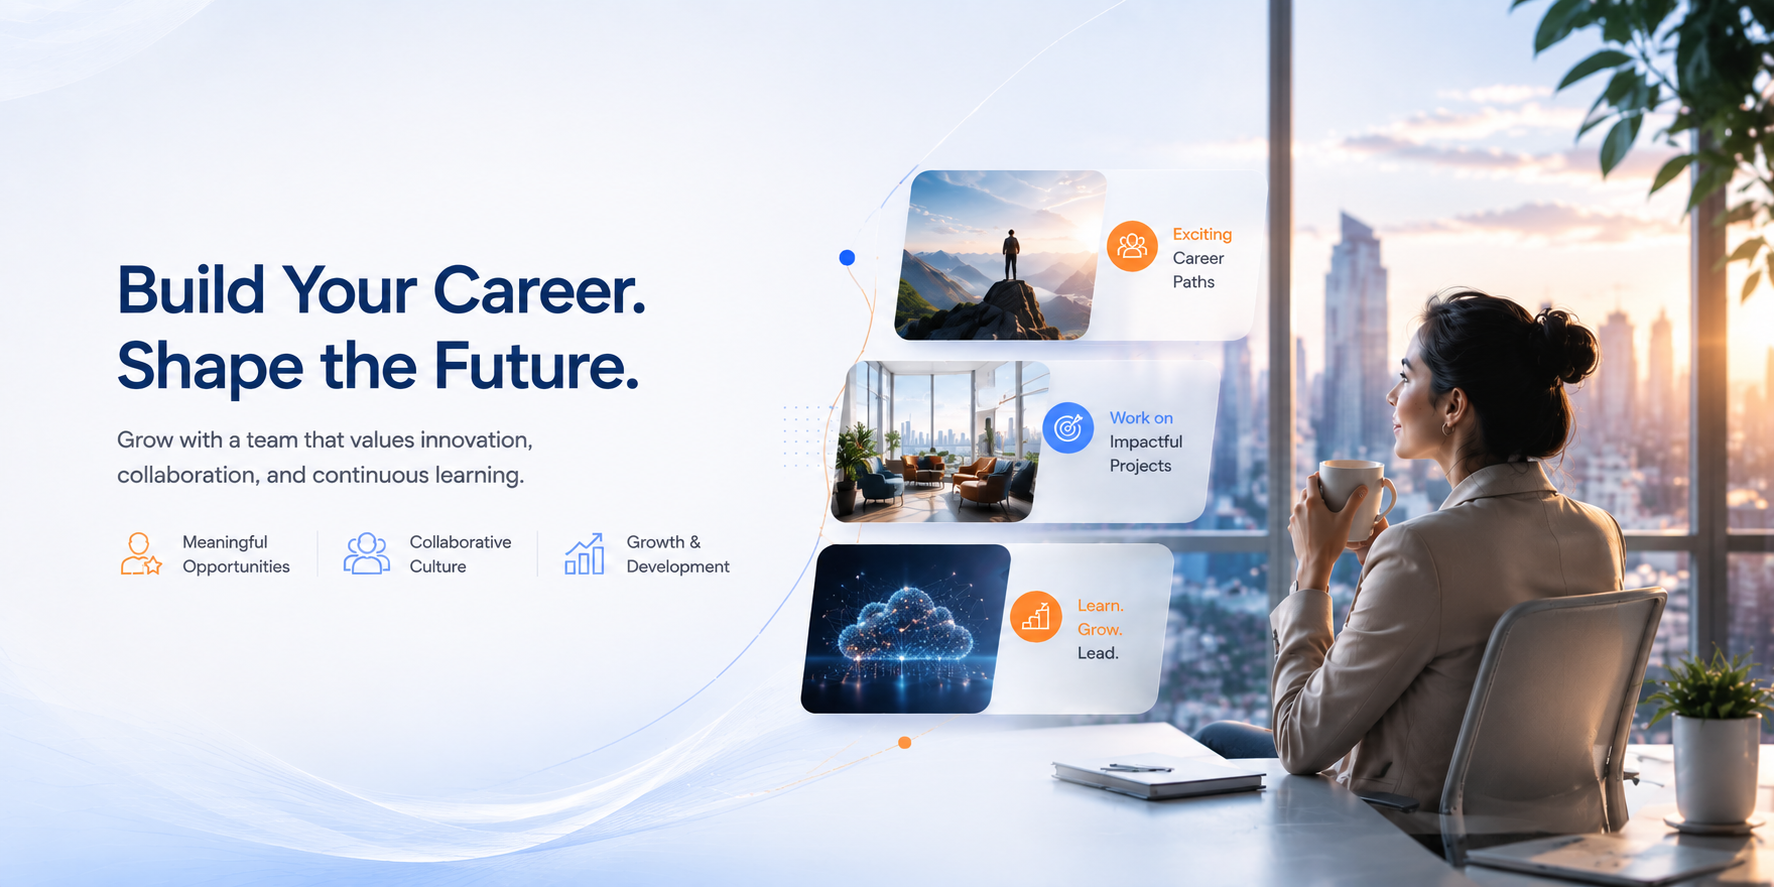
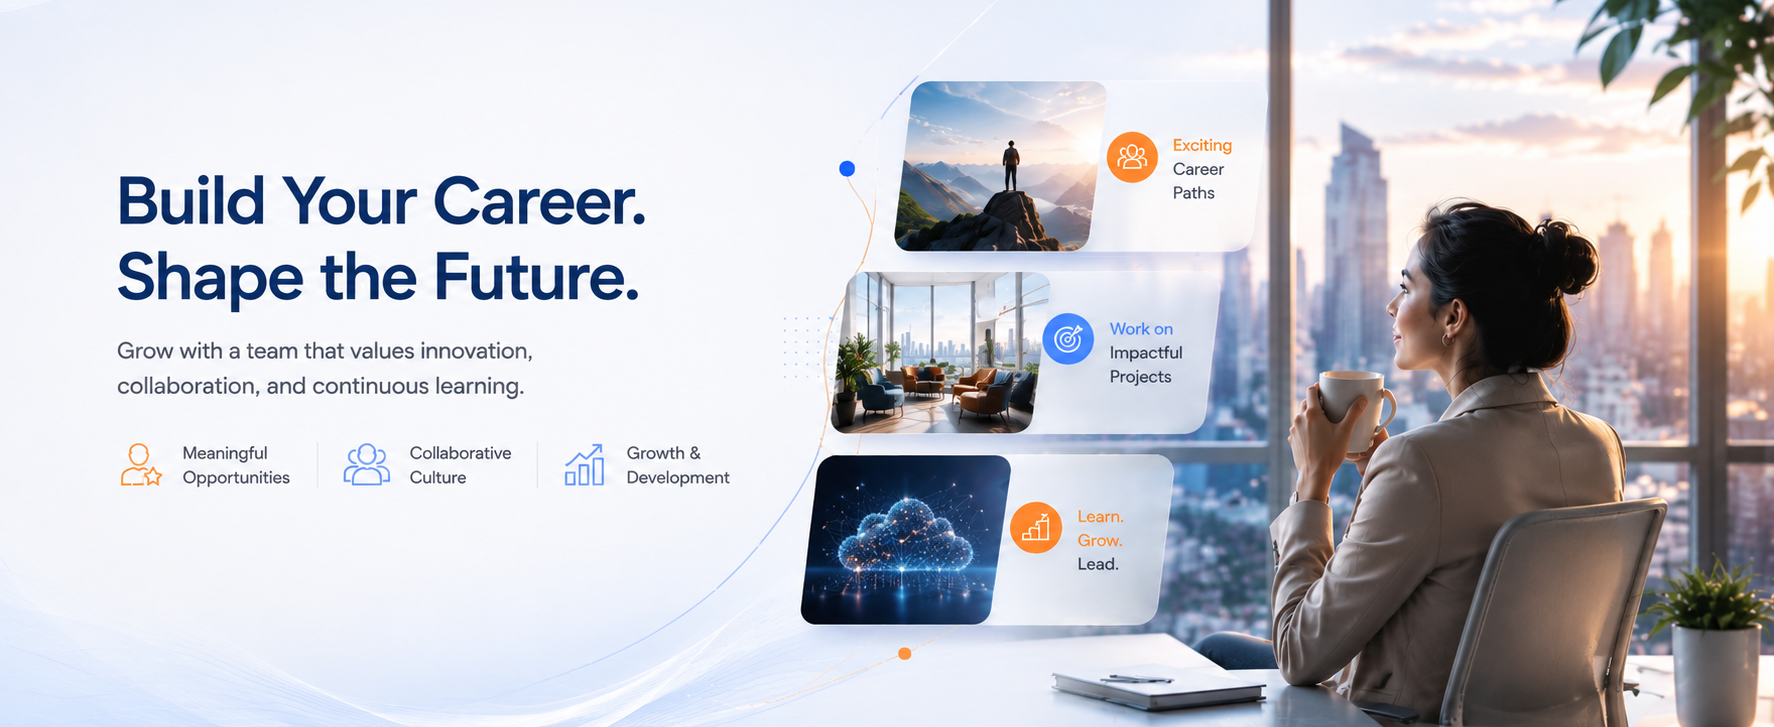
iso update

diff --git a/Finandox/iso.html b/Finandox/iso.html
@@ -379,279 +379,7 @@
             </div>
         </section>
 
-        <footer class="main-footer proen-footer">
-
-            <div class="auto-container">
-
-                <div class="widgets-section">
-
-                    <div class="row clearfix">
-
-                        <!-- Company Info -->
-                        <div class="column col-lg-4 col-md-6">
-
-                            <div class="footer-widget about-widget">
-
-                                <div class="footer-logo">
-
-                                    <a href="index.html">
-
-                                        <img src="assets/images/proen-logo.png" alt="PROEN Consulting Services">
-
-                                    </a>
-
-                                </div>
-
-                                <p>
-                                    PROEN Consulting Services is a leading AI-driven Contract Lifecycle
-                                    Management (CLM) consulting company helping enterprises accelerate
-                                    digital transformation through consulting, implementation,
-                                    managed services, AI-powered contract intelligence, staff
-                                    augmentation, and legacy contract digitization.
-                                </p>
-
-                                <div class="footer-social">
-
-                                    <a href="https://www.linkedin.com/company/proen-clm/posts/" aria-label="LinkedIn">
-                                        <i class="fab fa-linkedin-in"></i>
-                                    </a>
-
-                                    <a href="https://www.facebook.com/profile.php?id=100083807522389"
-                                        aria-label="Facebook">
-                                        <i class="fab fa-facebook-f"></i>
-                                    </a>
-
-                                    <a href="https://x.com/Proen05540198" aria-label="Twitter">
-                                        <i class="fab fa-twitter"></i>
-                                    </a>
-
-                                    <a href="https://www.instagram.com/proenconsultingservices/" aria-label="Instagram">
-                                        <i class="fab fa-instagram"></i>
-                                    </a>
-
-
-                                </div>
-
-                            </div>
-
-                        </div>
-
-                        <!-- Quick Links -->
-
-                        <div class="column col-lg-2 col-md-6">
-
-                            <div class="footer-widget">
-
-                                <h3>
-                                    Quick Links
-                                </h3>
-
-                                <ul class="footer-links">
-
-                                    <li><a href="index.html">Home</a></li>
-
-                                    <li><a href="about.html">About Us</a></li>
-
-                                    <li><a href="services.html">Services</a></li>
-
-                                    <li><a href="blog-grid.html">Announcements</a></li>
-
-                                    <li><a href="careers.html">Careers</a></li>
-
-                                    <li><a href="contact.html">Contact Us</a></li>
-
-                                </ul>
-
-                            </div>
-
-                        </div>
-
-                        <!-- Services -->
-
-                        <div class="column col-lg-3 col-md-6">
-
-                            <div class="footer-widget">
-
-                                <h3>
-                                    Our Services
-                                </h3>
-
-                                <ul class="footer-links">
-
-                                    <li>
-                                        <a href="ai-enabled-clm.html">
-                                            AI-Powered CLM
-                                        </a>
-                                    </li>
-                                    <li>
-                                        <a href="consultation-on-clm-service.html">
-                                            Consultation on CLM Implementation
-                                        </a>
-                                    </li>
-
-                                    <li>
-                                        <a href="technology-development.html">
-                                            Technology Development
-                                        </a>
-                                    </li>
-
-                                    <li>
-                                        <a href="managed-services.html">
-                                            Managed Services
-                                        </a>
-                                    </li>
-
-                                    <li>
-                                        <a href="staff-augmentation.html">
-                                            Staff Augmentation
-                                        </a>
-                                    </li>
-
-                                    <li>
-                                        <a href="paralegal-service.html">
-                                            Paralegal Services
-                                        </a>
-                                    </li>
-
-                                    <li>
-                                        <a href="data-extraction-service.html">
-                                            Data Extraction as a Service
-                                        </a>
-                                    </li>
-
-                                    <li>
-                                        <a href="digital-transformation-service.html">
-                                            Digital Transformation On CLM
-                                        </a>
-                                    </li>
-
-
-                                </ul>
-
-                            </div>
-
-                        </div>
-
-                        <!-- Contact & Offices -->
-
-                        <div class="column col-lg-3 col-md-6">
-
-                            <div class="footer-widget">
-
-                                <h3>
-                                    Contact & Offices
-                                </h3>
-
-                                <div class="footer-contact">
-
-                                    <!-- Email -->
-
-                                    <div class="contact-item">
-
-                                        <i class="flaticon-email-6"></i>
-
-                                        <div>
-
-                                            <a href="mailto:contactus@proen.co.in">
-                                                contactus@proen.co.in
-                                            </a>
-
-                                        </div>
-
-                                    </div>
-
-                                    <!-- Phone -->
-
-                                    <div class="contact-item">
-
-                                        <i class="flaticon-call-1"></i>
-
-                                        <div>
-
-                                            <a href="tel:+917483323205">
-                                                +91 74833 23205
-                                            </a>
-
-                                        </div>
-
-                                    </div>
-
-                                    <!-- Bengaluru -->
-
-                                    <div class="contact-item">
-
-                                        <i class="flaticon-location"></i>
-
-                                        <div>
-
-                                            <strong>Head Office (Bengaluru)</strong>
-
-                                            <br>
-
-                                            878, 5th Block, 1st Stage,
-                                            HBR Layout,
-                                            Bengaluru - 560043
-
-                                        </div>
-
-                                    </div>
-
-                                    <!-- Belagavi -->
-
-                                    <div class="contact-item">
-
-                                        <i class="flaticon-location"></i>
-
-                                        <div>
-
-                                            <strong>Belagavi</strong>
-
-                                            <br>
-
-                                            Panchavati Plaza,
-                                            202, Deshmukh Road,
-                                            Near 1st Railway Gate,
-                                            Belagavi - 590006
-
-                                        </div>
-
-                                    </div>
-
-                                    <!-- Davanagere -->
-
-                                    <div class="contact-item">
-
-                                        <i class="flaticon-location"></i>
-
-                                        <div>
-
-                                            <strong>Davanagere</strong>
-
-                                            <br>
-
-                                            PB Road,
-                                            Near Big Bazar,
-                                            Davanagere - 577002
-
-                                        </div>
-
-                                    </div>
-
-                                </div>
-
-                            </div>
-
-                        </div>
-
-                    </div>
-
-                </div>
-
-            </div>
-
-            <!-- Footer Bottom -->
-
-            <footer class="main-footer proen-footer">
+       <footer class="main-footer proen-footer">
 
             <div class="auto-container">
 
@@ -850,8 +578,6 @@
                 </div>
 
             </div>
-
-        </footer>
 
         </footer>
 
